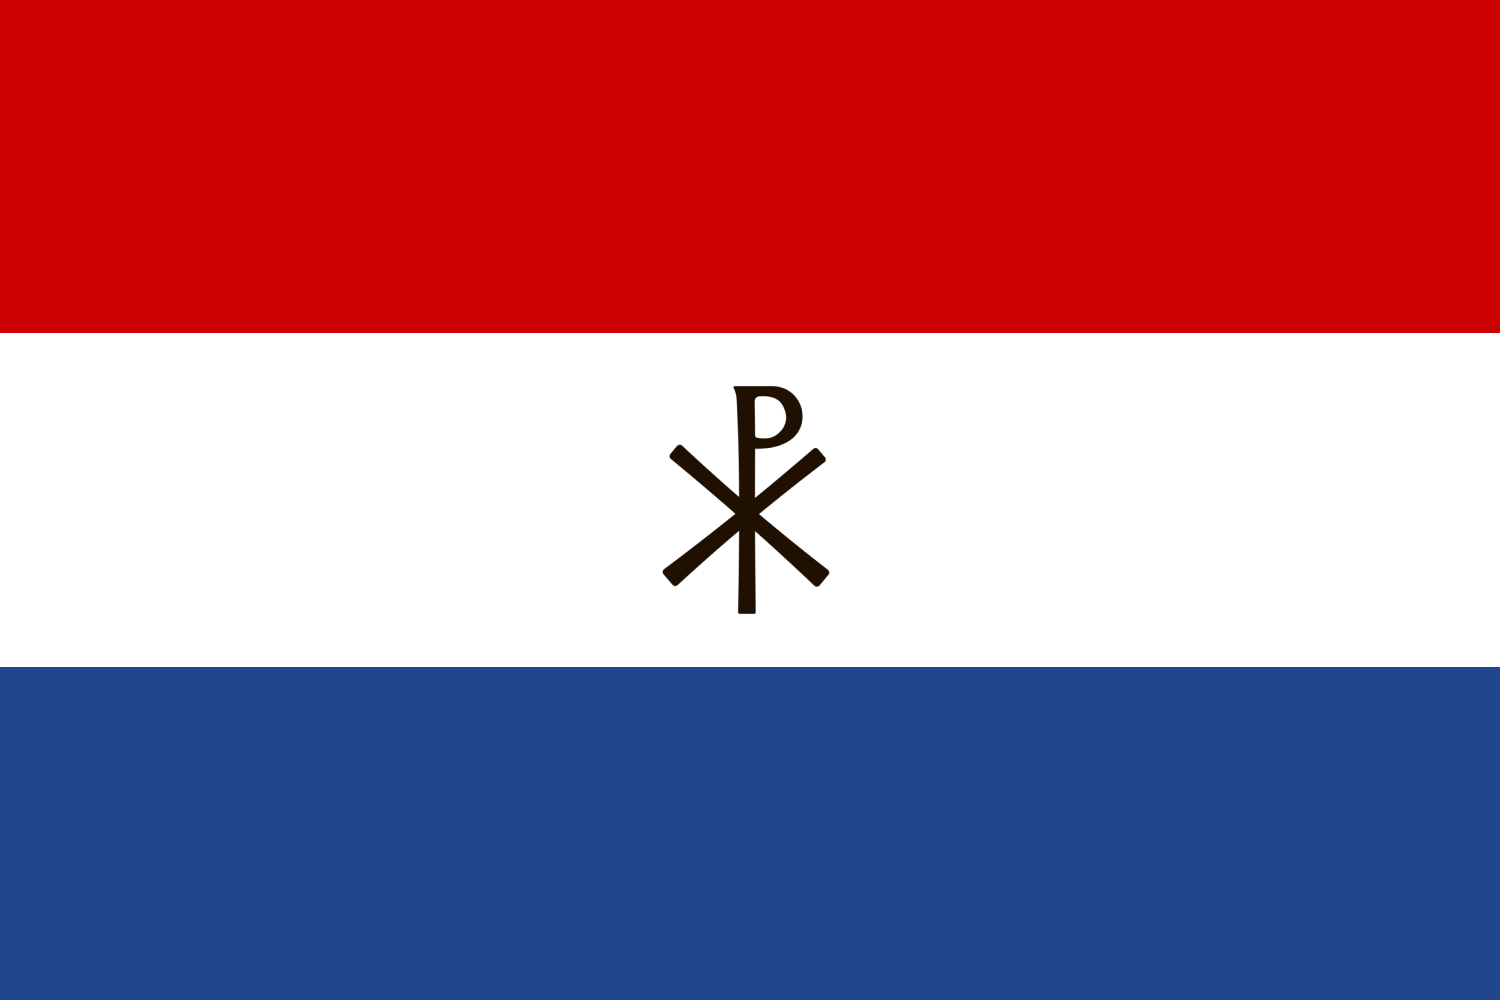
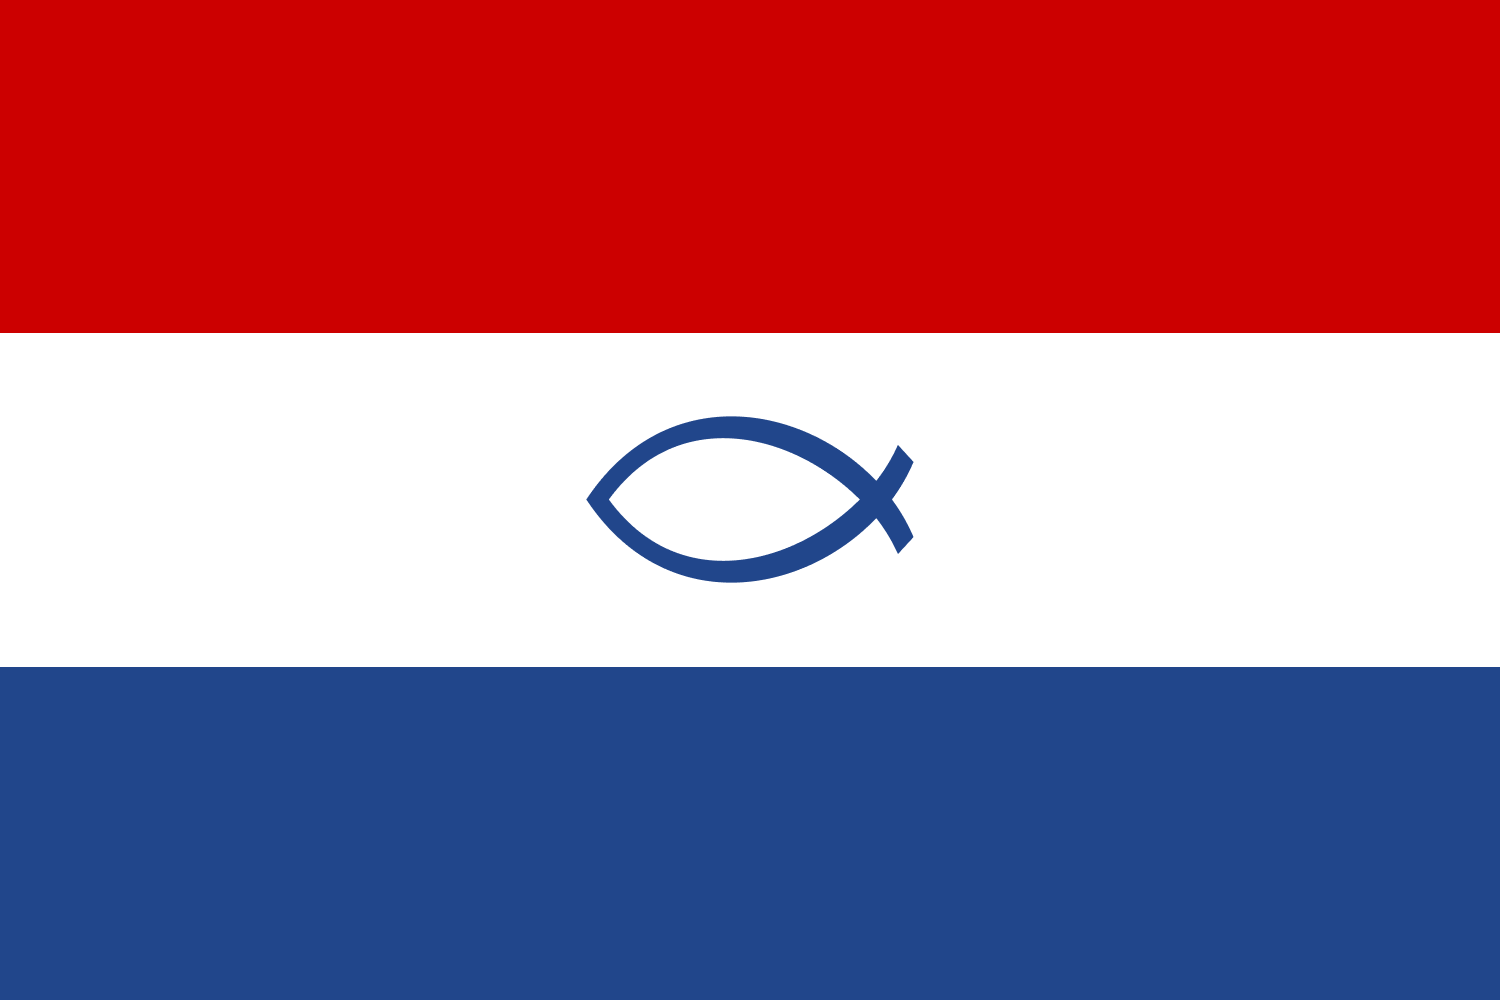
Update Dutch theocratic flag
Changed chi rho to ichtus.

Changed region(s): [[0.368, 0.372, 0.6133, 0.62]]

diff --git a/README.md b/README.md
@@ -4,12 +4,11 @@
  ## List of changes
  | Country     | Name                         | Trigger                    | Map colour | Flag                                                         |
  | ----------- | ---------------------------- | -------------------------- | ---------- | ------------------------------------------------------------ |
+ | Belgium     | Belgian Syndicate            | `Council Republic` enacted |            | [Existing flag](https://vic3.paradoxwikis.com/List_of_flags) |
  | Netherlands | Dutch Calvinist Congregation | `Theocracy` enacted        |            | <img src="custom flags/NET_Theocracy.png" width="50">        |
  | Netherlands | Dutch Free Farmers           | `Industry banned` enacted  |            | <img src="custom flags/NET_Agriculture.png" width="50">      |
  | Netherlands | Dutch Proletarian Republic   | `Council Republic` enacted |            | <img src="custom flags/NET_Communist.png" width="50">        |
  | Netherlands | Scientific Dutch Directorate | `Technocracy` enacted      |            | Missing                                                      |
- | Belgium     | Belgian Syndicate            | `Council Republic` enacted |            | [Existing flag](https://vic3.paradoxwikis.com/List_of_flags) |
+ | Netherlands | Kingdom of the Netherlands   | `Monarchy` enacted         |            | [Existing flag](https://vic3.paradoxwikis.com/List_of_flags) |
  | Poland      | Kingdom of Poland            | `Monarchy` enacted         |            | [Existing flag](https://vic3.paradoxwikis.com/List_of_flags) |
  | Scandinavia | Nordic People's Union        | `Council Republic` enacted |            | Missing                                                      |
- |             |                              |                            |            |                                                              |
-   
